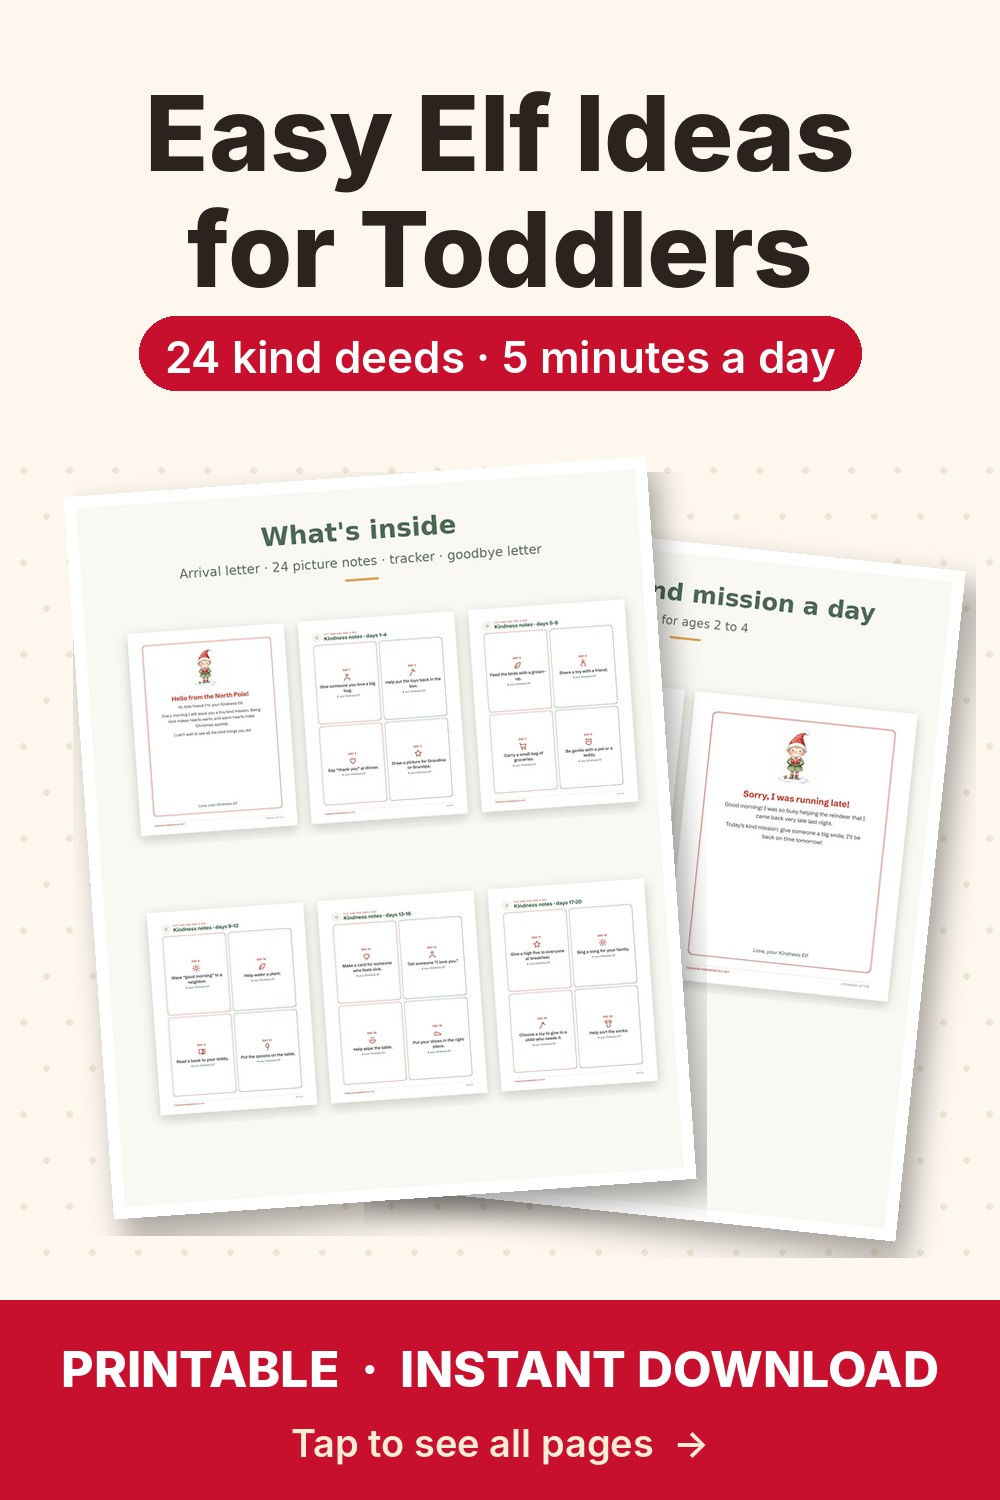
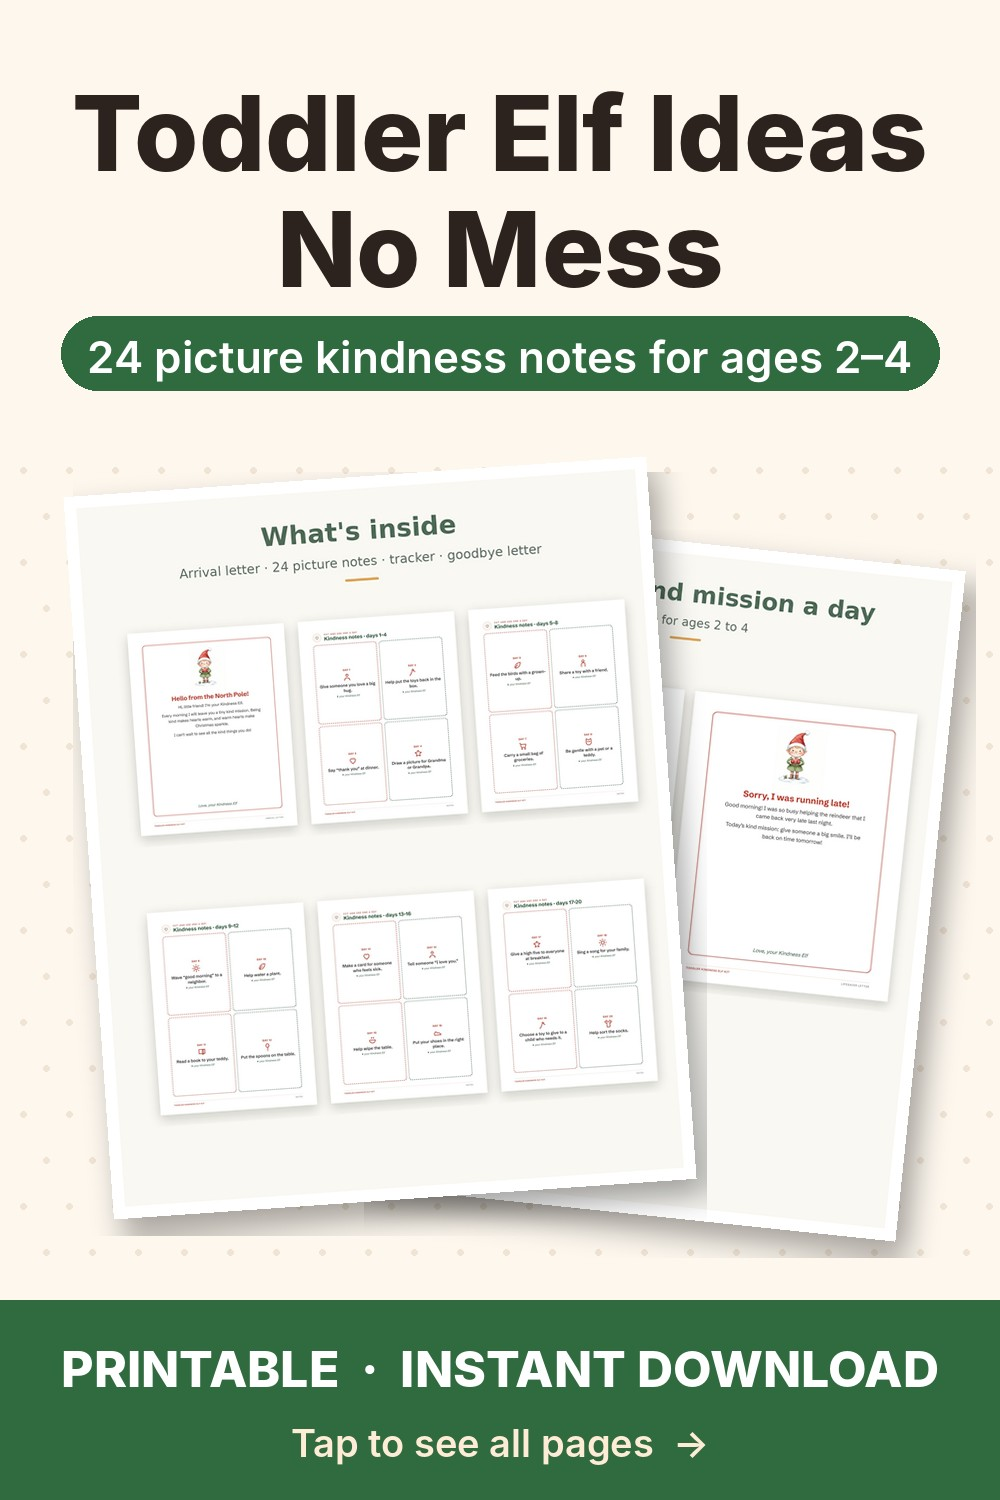
Emily Nov 24: manual pin package (3 Kindness pins), no Metricool scheduling
Claude-Session: https://claude.ai/code/session_01JLjX6jg3enY8YVVwM5AKuG

Changed region(s): [[0.062, 0.0613, 0.961, 0.276], [0.0, 0.8587, 1.0, 1.0]]

diff --git a/projects/etsy-empire/marketing_szovegek/pin-csomag-2026-11-24.md b/projects/etsy-empire/marketing_szovegek/pin-csomag-2026-11-24.md
@@ -1,0 +1,11 @@
+# Pin-csomag – 2026-11-24 (kézi, Metricool-ütemezés nélkül)
+
+Nóra a nov. 23-i Metricool-ütemezést elutasította, ezért a pineket nem ütemeztük. Ha mehet: Metricool vagy Pinterest, kézzel, vagy szólj, és ütemezem.
+
+| Idő | Kép | Cím | Leírás | Link | Tábla |
+|---|---|---|---|---|---|
+| 01:30 | termekek/toddler-kindness-elf/kepek/pin-1.jpg | Toddler Elf Ideas, No Mess: 24 Picture Kindness Notes for Ages 2–4 | Want the elf magic without the midnight mess? A little kindness elf leaves one picture note a day: hug someone, help set the table, feed the birds. Arrival letter, tracker and goodbye letter included. Made for ages 2 to 4. Tap to download and print tonight. | https://www.etsy.com/listing/4620130071 | Christmas Printables for Kids (1095289640567036564) |
+| 12:30 | termekek/kindness-advent-cards/kepek/pin-2.jpg | Kindness Advent Calendar for Kids: 24 Kind Missions Until Christmas | Looking for an advent calendar that isn't more candy? 24 printable kindness missions, a tracker and talk cards turn December into a month of small good deeds. Ages 3 to 8, classrooms too. Tap to download and print tonight. | https://www.etsy.com/listing/4617660349 | Christmas Family Traditions (…556) |
+| 23:00 | termekek/kindness-snowman-kit/kepek/pin-1.jpg | After the Elf Leaves: January Kindness Snowman Kit for Kids | The elf went home, but your kids still want a morning note? A little snowman brings one kind mission a day all January: arrival letter, 24 notes, snow day cards and a goodbye letter. Ages 3 to 8. Tap to download and print tonight. | https://www.etsy.com/listing/4623638153 | Christmas Family Traditions (…556) |
+
+AI-jelölés: isAiGenerated true. Reel ma nincs (kredit-takarékosság).
